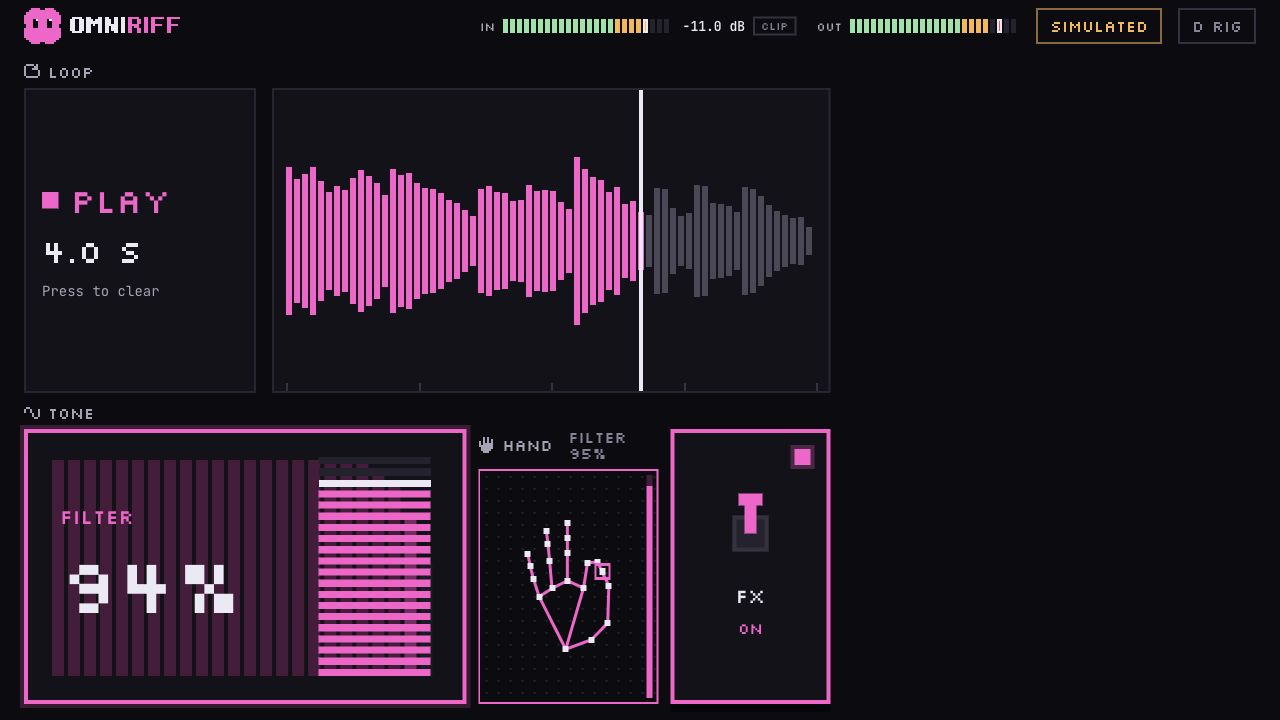
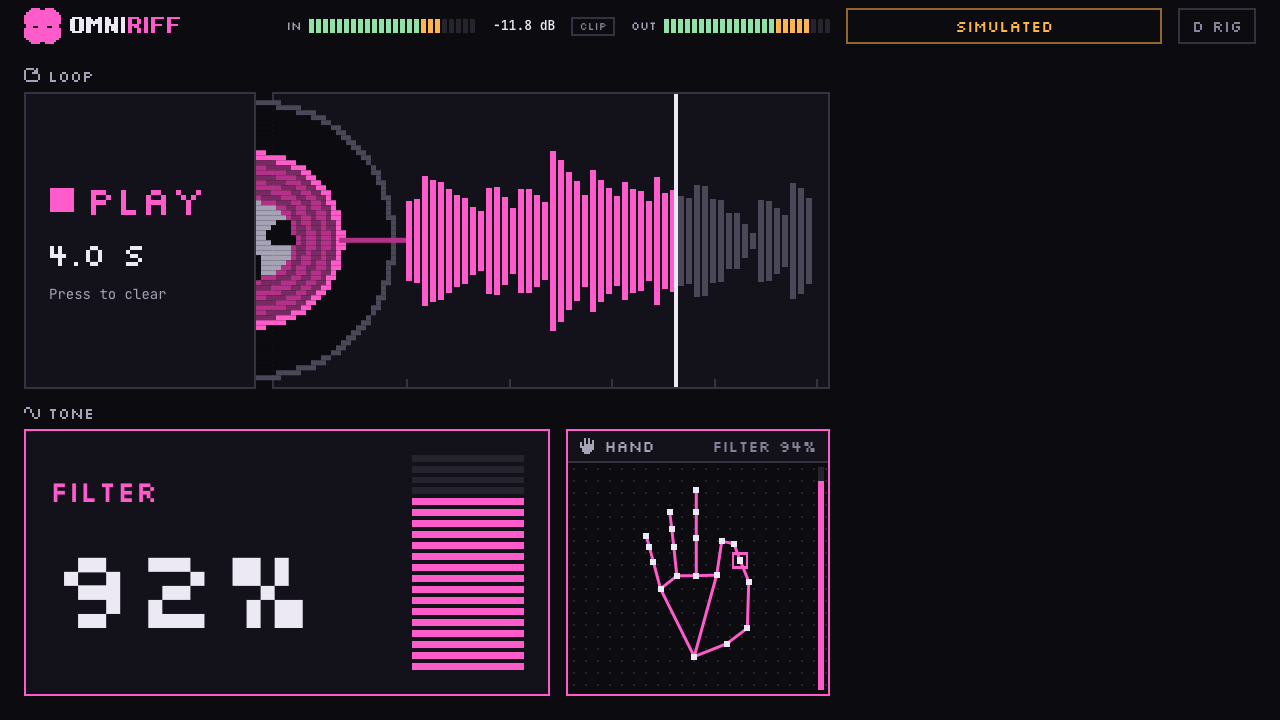
docs(media): recapture gallery-01 and gallery-02 from final UI
- Recapture docs/media/gallery-01-coach.png and gallery-02-hand.png from final merged UI (#140/#144)
- Maintain 1280x720 RGB PNG dimensions and visible SIMULATED / SCRIPTED COACH badges per docs/media/GALLERY.md
- Add reproducible automated capture tool scripts/recapture_gallery.py

diff --git a/scripts/recapture_gallery.py b/scripts/recapture_gallery.py
@@ -1,0 +1,189 @@
+"""Recapture gallery-01-coach.png and gallery-02-hand.png per docs/media/GALLERY.md."""
+import asyncio
+import base64
+import json
+import os
+from pathlib import Path
+import subprocess
+import time
+import urllib.request
+import websockets
+from PIL import Image
+import io
+
+ROOT = Path(__file__).resolve().parents[1]
+MEDIA = ROOT / 'docs/media'
+CHROME_BIN = '/Applications/Google Chrome.app/Contents/MacOS/Google Chrome'
+
+UDP_PORT = 59210
+WS_PORT = 59211
+HAND_PORT = 59212
+COACH_PORT = 59213
+HTTP_PORT = 18985
+CDP_PORT = 9222
+
+
+async def get_cdp_page(ws_url):
+    return await websockets.connect(ws_url, max_size=20 * 1024 * 1024)
+
+
+async def evaluate(ws, expr):
+    msg_id = int(time.time() * 1000) % 1000000 + 100
+    await ws.send(json.dumps({
+        'id': msg_id,
+        'method': 'Runtime.evaluate',
+        'params': {'expression': expr, 'returnByValue': True}
+    }))
+    while True:
+        raw = await ws.recv()
+        data = json.loads(raw)
+        if data.get('id') == msg_id:
+            return data.get('result', {}).get('result', {}).get('value')
+
+
+async def capture_screenshot(ws, output_path):
+    msg_id = int(time.time() * 1000) % 1000000 + 200
+    await ws.send(json.dumps({
+        'id': msg_id,
+        'method': 'Page.captureScreenshot',
+        'params': {'format': 'png'}
+    }))
+    while True:
+        raw = await ws.recv()
+        data = json.loads(raw)
+        if data.get('id') == msg_id:
+            png_bytes = base64.b64decode(data['result']['data'])
+            # Ensure it is RGB PNG at 1280x720
+            im = Image.open(io.BytesIO(png_bytes)).convert('RGB')
+            if im.size != (1280, 720):
+                im = im.resize((1280, 720), Image.Resampling.LANCZOS)
+            im.save(output_path, 'PNG')
+            print(f'Saved verified RGB PNG {im.size} ({os.path.getsize(output_path)} bytes): {output_path}')
+            return png_bytes
+
+
+async def capture_gallery():
+    print('Starting tools.sim run...')
+    sim_proc = subprocess.Popen([
+        'python3', '-m', 'tools.sim', 'run',
+        '--demo', '--coach-sim', '--coach-round', '--no-voice',
+        '--duration', '300',
+        '--udp-port', str(UDP_PORT),
+        '--ws-port', str(WS_PORT),
+        '--hand-port', str(HAND_PORT),
+        '--coach-port', str(COACH_PORT),
+        '--http-port', str(HTTP_PORT),
+    ], cwd=str(ROOT))
+
+    print('Starting Chrome headless...')
+    chrome_proc = subprocess.Popen([
+        CHROME_BIN,
+        '--headless',
+        f'--remote-debugging-port={CDP_PORT}',
+        '--window-size=1280,720',
+        '--disable-gpu',
+        '--hide-scrollbars',
+        'about:blank'
+    ])
+
+    try:
+        await asyncio.sleep(2.5)
+        with urllib.request.urlopen(f'http://127.0.0.1:{CDP_PORT}/json/list') as resp:
+            tabs = json.loads(resp.read().decode())
+        ws_url = tabs[0]['webSocketDebuggerUrl']
+
+        async with await get_cdp_page(ws_url) as ws:
+            # Enable Page and Emulation
+            await ws.send(json.dumps({'id': 1, 'method': 'Page.enable'}))
+            await ws.send(json.dumps({
+                'id': 2,
+                'method': 'Emulation.setDeviceMetricsOverride',
+                'params': {
+                    'width': 1280,
+                    'height': 720,
+                    'deviceScaleFactor': 1,
+                    'mobile': False,
+                }
+            }))
+
+            # -------------------------------------------------------------
+            # CAPTURE 1: Practice Dashboard (gallery-01-coach.png)
+            # -------------------------------------------------------------
+            url1 = f'http://127.0.0.1:{HTTP_PORT}/?ws=ws://127.0.0.1:{WS_PORT}&hand=ws://127.0.0.1:{HAND_PORT}&coachws=ws://127.0.0.1:{COACH_PORT}&sim=input'
+            print(f'Navigating to Gallery 1 URL:\n  {url1}')
+            await ws.send(json.dumps({'id': 3, 'method': 'Page.navigate', 'params': {'url': url1}}))
+            await asyncio.sleep(3.0)
+
+            print('Monitoring coach state for Drill 2 / before-after (Pass cue)...')
+            t0 = time.time()
+            captured_01 = False
+            while time.time() - t0 < 90.0:
+                pill = await evaluate(ws, 'document.querySelector("#statusPill") ? document.querySelector("#statusPill").textContent : ""')
+                coach_line = await evaluate(ws, 'document.querySelector("#coachLine") ? document.querySelector("#coachLine").textContent : ""')
+                app_coach = await evaluate(ws, 'document.querySelector("#app") ? document.querySelector("#app").dataset.coach : ""')
+                has_before_after = await evaluate(ws, 'Boolean(document.querySelector(".before-after") || document.body.innerText.includes("120 ms") || document.body.innerText.includes("430 ms"))')
+                loop_word = await evaluate(ws, 'document.querySelector("#loopWord") ? document.querySelector("#loopWord").textContent : ""')
+
+                print(f'[{time.time()-t0:.1f}s] pill="{pill}" coach="{app_coach}" loop="{loop_word}" b/a={has_before_after} line="{coach_line[:35]}..."')
+
+                # We specifically want the Drill 2 moment where the before/after card is shown or pass cue
+                if 'SIMULATED · SCRIPTED COACH' in pill and has_before_after and ('tenth' in coach_line.lower() or 'pattern' in coach_line.lower() or 'nice' in coach_line.lower() or 'drill' in coach_line.lower()):
+                    print('Found Drill 2 with before-after card and pass cue!')
+                    await asyncio.sleep(1.0)
+                    await capture_screenshot(ws, MEDIA / 'gallery-01-coach.png')
+                    captured_01 = True
+                    break
+
+                await asyncio.sleep(1.2)
+
+            if not captured_01:
+                print('Capturing latest coach state...')
+                await capture_screenshot(ws, MEDIA / 'gallery-01-coach.png')
+
+            # -------------------------------------------------------------
+            # CAPTURE 2: Gesture Control View (gallery-02-hand.png)
+            # -------------------------------------------------------------
+            url2 = f'http://127.0.0.1:{HTTP_PORT}/?ws=ws://127.0.0.1:{WS_PORT}&hand=ws://127.0.0.1:{HAND_PORT}&coach=off&sim=input'
+            print(f'Navigating to Gallery 2 URL:\n  {url2}')
+            await ws.send(json.dumps({'id': 4, 'method': 'Page.navigate', 'params': {'url': url2}}))
+            await asyncio.sleep(2.0)
+
+            print('Monitoring demo for hand filter sweep...')
+            t0 = time.time()
+            captured_02 = False
+            while time.time() - t0 < 45.0:
+                pill = await evaluate(ws, 'document.querySelector("#statusPill") ? document.querySelector("#statusPill").textContent : ""')
+                eng_name = await evaluate(ws, 'document.querySelector("#engName") ? document.querySelector("#engName").textContent : ""')
+                eng_pct = await evaluate(ws, 'document.querySelector("#engPct") ? document.querySelector("#engPct").textContent : ""')
+                hand_state = await evaluate(ws, 'document.querySelector("#handState") ? document.querySelector("#handState").textContent : ""')
+                filter_pct = await evaluate(ws, 'document.querySelector("#pct-filter") ? document.querySelector("#pct-filter").textContent : ""')
+
+                print(f'[{time.time()-t0:.1f}s] pill="{pill}" hand="{hand_state}" eng="{eng_name} {eng_pct}" filter="{filter_pct}"')
+
+                # We want filter sweep: engName == 'FILTER' and hand engaged!
+                if pill == 'SIMULATED' and eng_name == 'FILTER' and eng_pct != '0%':
+                    print('Captured active filter sweep!')
+                    await asyncio.sleep(0.4)
+                    await capture_screenshot(ws, MEDIA / 'gallery-02-hand.png')
+                    captured_02 = True
+                    break
+
+                await asyncio.sleep(0.3)
+
+            if not captured_02:
+                print('Capturing gesture view fallback...')
+                await capture_screenshot(ws, MEDIA / 'gallery-02-hand.png')
+
+    finally:
+        chrome_proc.terminate()
+        sim_proc.terminate()
+        try:
+            chrome_proc.wait(timeout=3)
+            sim_proc.wait(timeout=3)
+        except Exception:
+            chrome_proc.kill()
+            sim_proc.kill()
+
+
+if __name__ == '__main__':
+    asyncio.run(capture_gallery())
